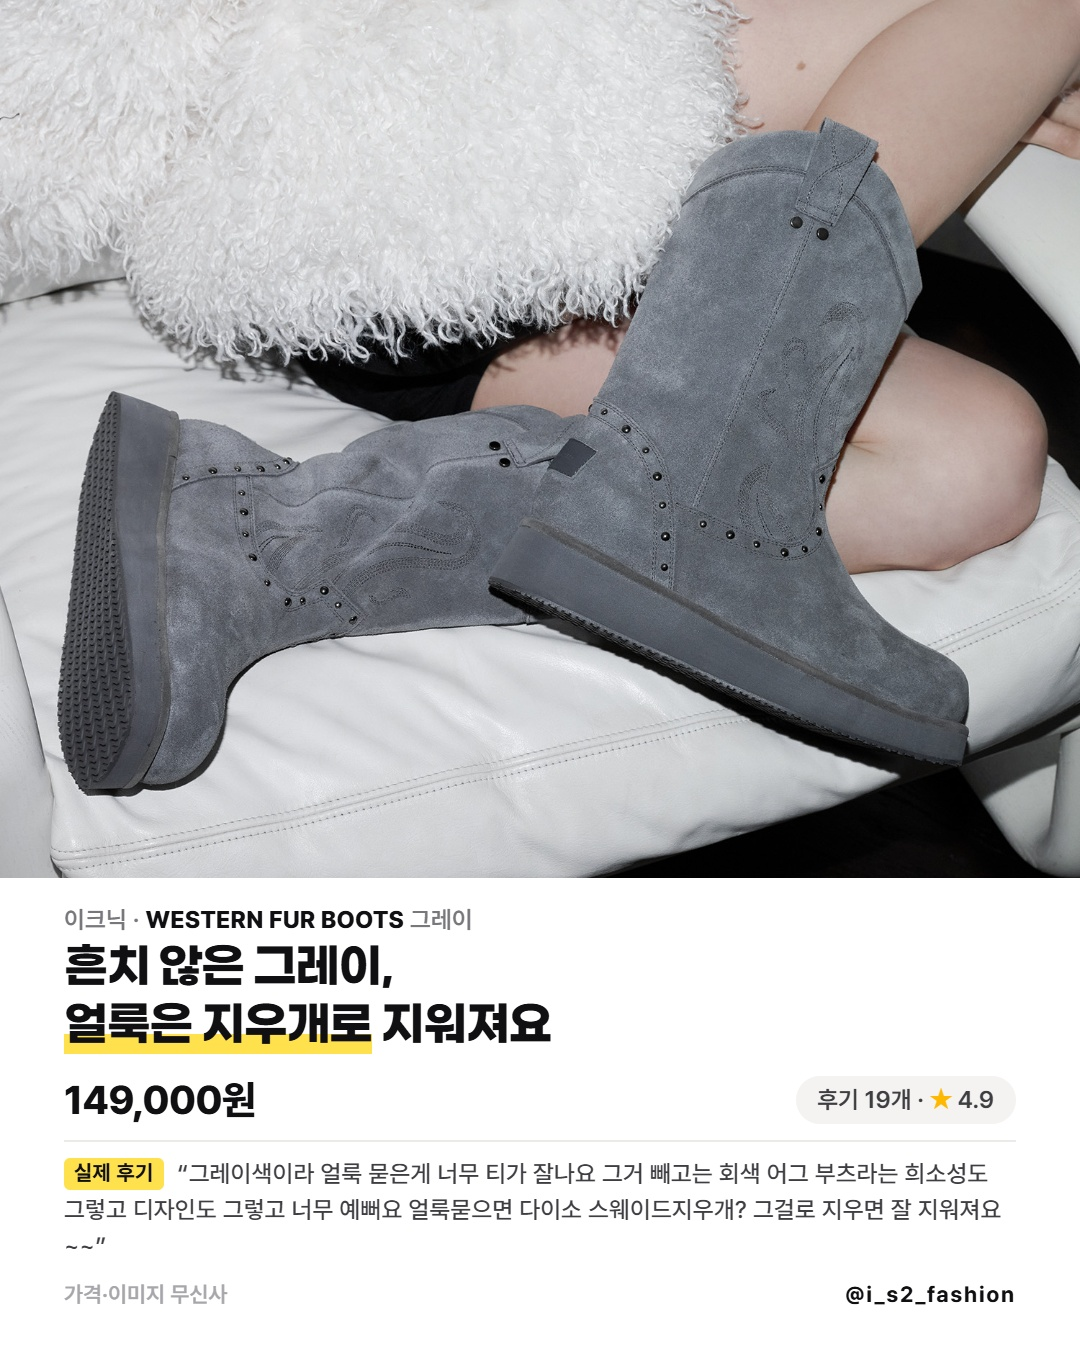
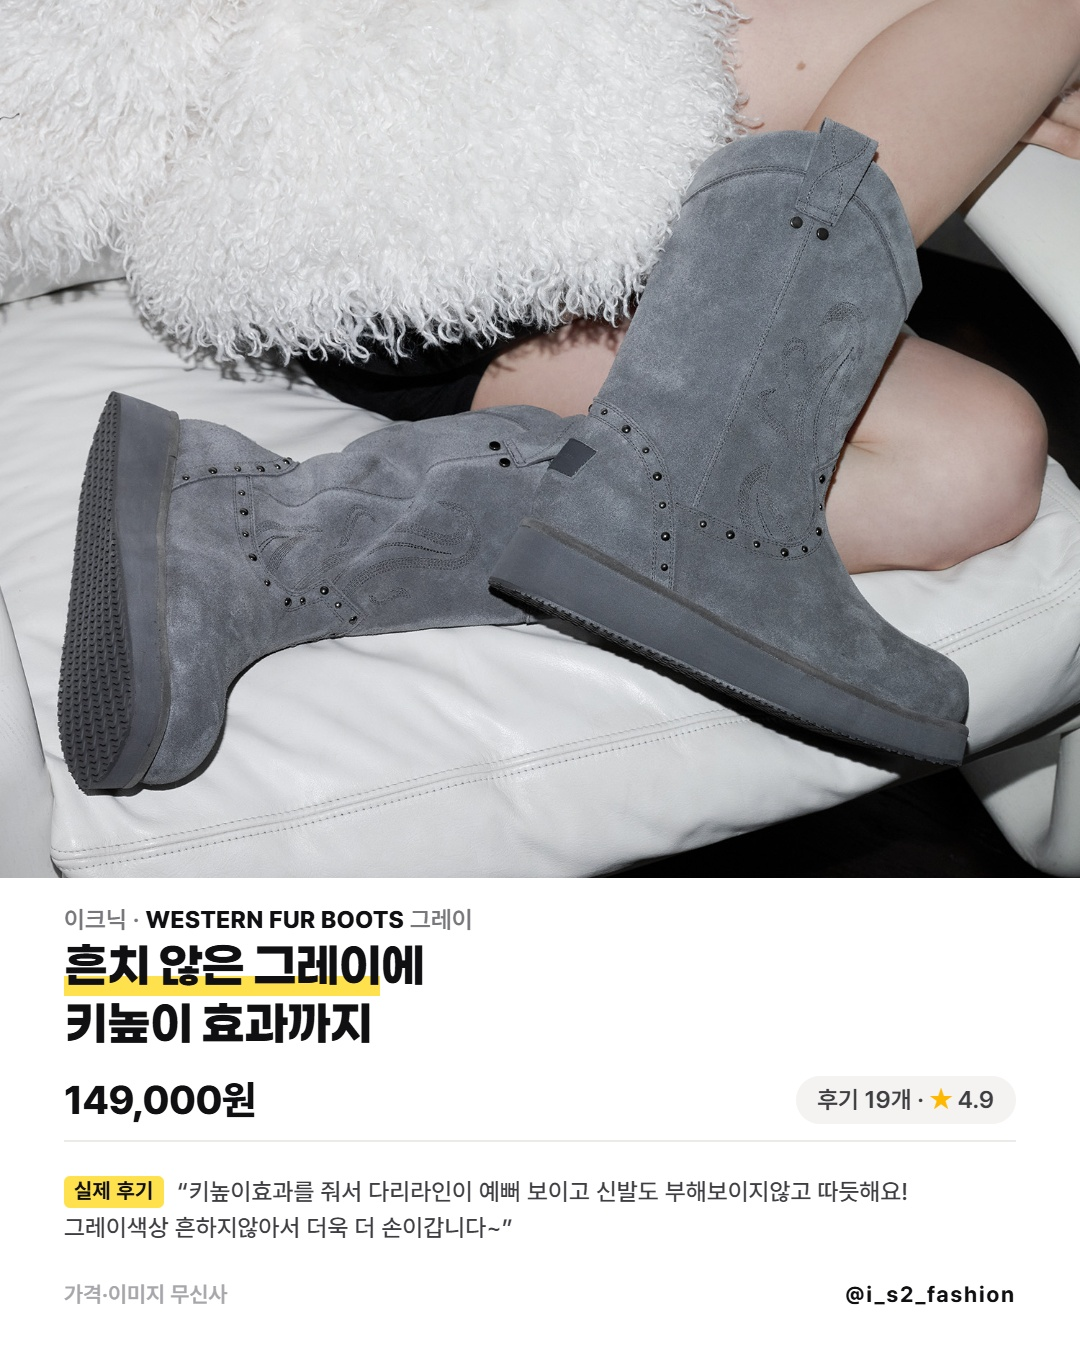
autopost: 20261102 늦가을 부츠 디자인·멘트 3회 검토 반영

Changed region(s): [[0.0611, 0.84, 0.9167, 0.9333], [0.0611, 0.6844, 0.5194, 0.8089]]

diff --git a/episodes/20261102 늦가을 부츠/_preview.html b/episodes/20261102 늦가을 부츠/_preview.html
@@ -5,7 +5,7 @@ h1{font-size:18px}.g{display:grid;grid-template-columns:repeat(auto-fit,minmax(2
 img{width:100%;display:block}pre{white-space:pre-wrap;background:#1e1e21;padding:16px;line-height:1.7}
 li.error{color:#ff6b81}li.warn{color:#ffd166}</style></head><body>
 <h1>20261102 늦가을 부츠 — 미리보기</h1><ul><li class=warn>1번(7063693): 다른 몰 가격을 비교하지 못함(§2 최저가 확인 불가) — 이 PC에서 수집 코드가 두 몰 모두 403 — 29CM 가격 비교 못 함(브라우저 수동 수집)</li><li class=warn>2번(5385842): 다른 몰 가격을 비교하지 못함(§2 최저가 확인 불가) — 이 PC에서 수집 코드가 두 몰 모두 403 — 29CM 가격 비교 못 함(브라우저 수동 수집)</li><li class=warn>3번(6081757): 다른 몰 가격을 비교하지 못함(§2 최저가 확인 불가) — 이 PC에서 수집 코드가 두 몰 모두 403 — 29CM 가격 비교 못 함(브라우저 수동 수집)</li><li class=warn>4번(7063650): 다른 몰 가격을 비교하지 못함(§2 최저가 확인 불가) — 이 PC에서 수집 코드가 두 몰 모두 403 — 29CM 가격 비교 못 함(브라우저 수동 수집)</li><li class=warn>5번(5788739): 다른 몰 가격을 비교하지 못함(§2 최저가 확인 불가) — 이 PC에서 수집 코드가 두 몰 모두 403 — 29CM 가격 비교 못 함(브라우저 수동 수집)</li><li class=warn>로스터 브랜드가 0곳 — 기준은 로스터 1 + 신규 4 (§2)</li><li class=warn>단일 브랜드 회차 — 사용자 지시: 11-02 사용자 &#x27;어그부츠 버리고 이크닉 브랜드 신발 5종으로 가자&#x27;</li></ul><div class="g"><img src="1.jpg?t=0" alt="1"><img src="2.jpg?t=0" alt="2"><img src="3.jpg?t=0" alt="3"><img src="4.jpg?t=0" alt="4"><img src="5.jpg?t=0" alt="5"><img src="6.jpg?t=0" alt="6"><img src="7.jpg?t=0" alt="7"></div>
-<h2>캡션</h2><pre>늦가을 부츠는 디자인보다 발볼과 통에서 실패가 갈립니다 👢
+<h2>캡션</h2><pre>늦가을 부츠, 흔한 디자인은 싫은데 발볼과 통에서 실패할까 봐 망설여지시죠 👢
 
 이크닉 신발만 다섯 켤레, 드레시한 것부터 캐주얼한 순서로 놓았습니다. 네 번째는 굽이 숨은 하이 스니커즈입니다.
 무신사에서 판매 중인 것 중 착용 사진과 실제 후기를 같이 볼 수 있는 것만 골랐습니다.
